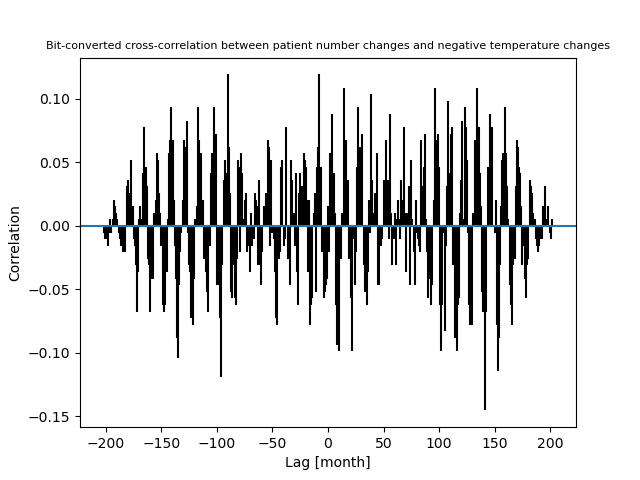
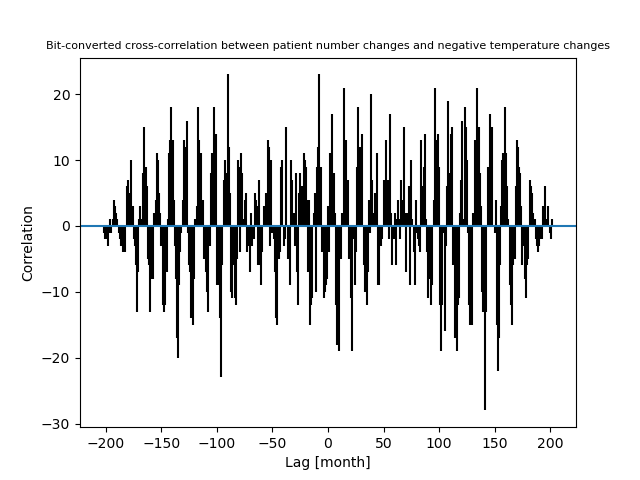
Fix plot.

diff --git a/cross_correlation.py b/cross_correlation.py
@@ -74,7 +74,7 @@ if PLOT:
 
     plt.figure()
     plt.xcorr(np.sign(patient_change), np.sign(-temperature_change),
-              maxlags=None)
+              normed=False, maxlags=None)
     plt.xlabel('Lag [month]')
     plt.ylabel('Correlation')
     plt.title(
